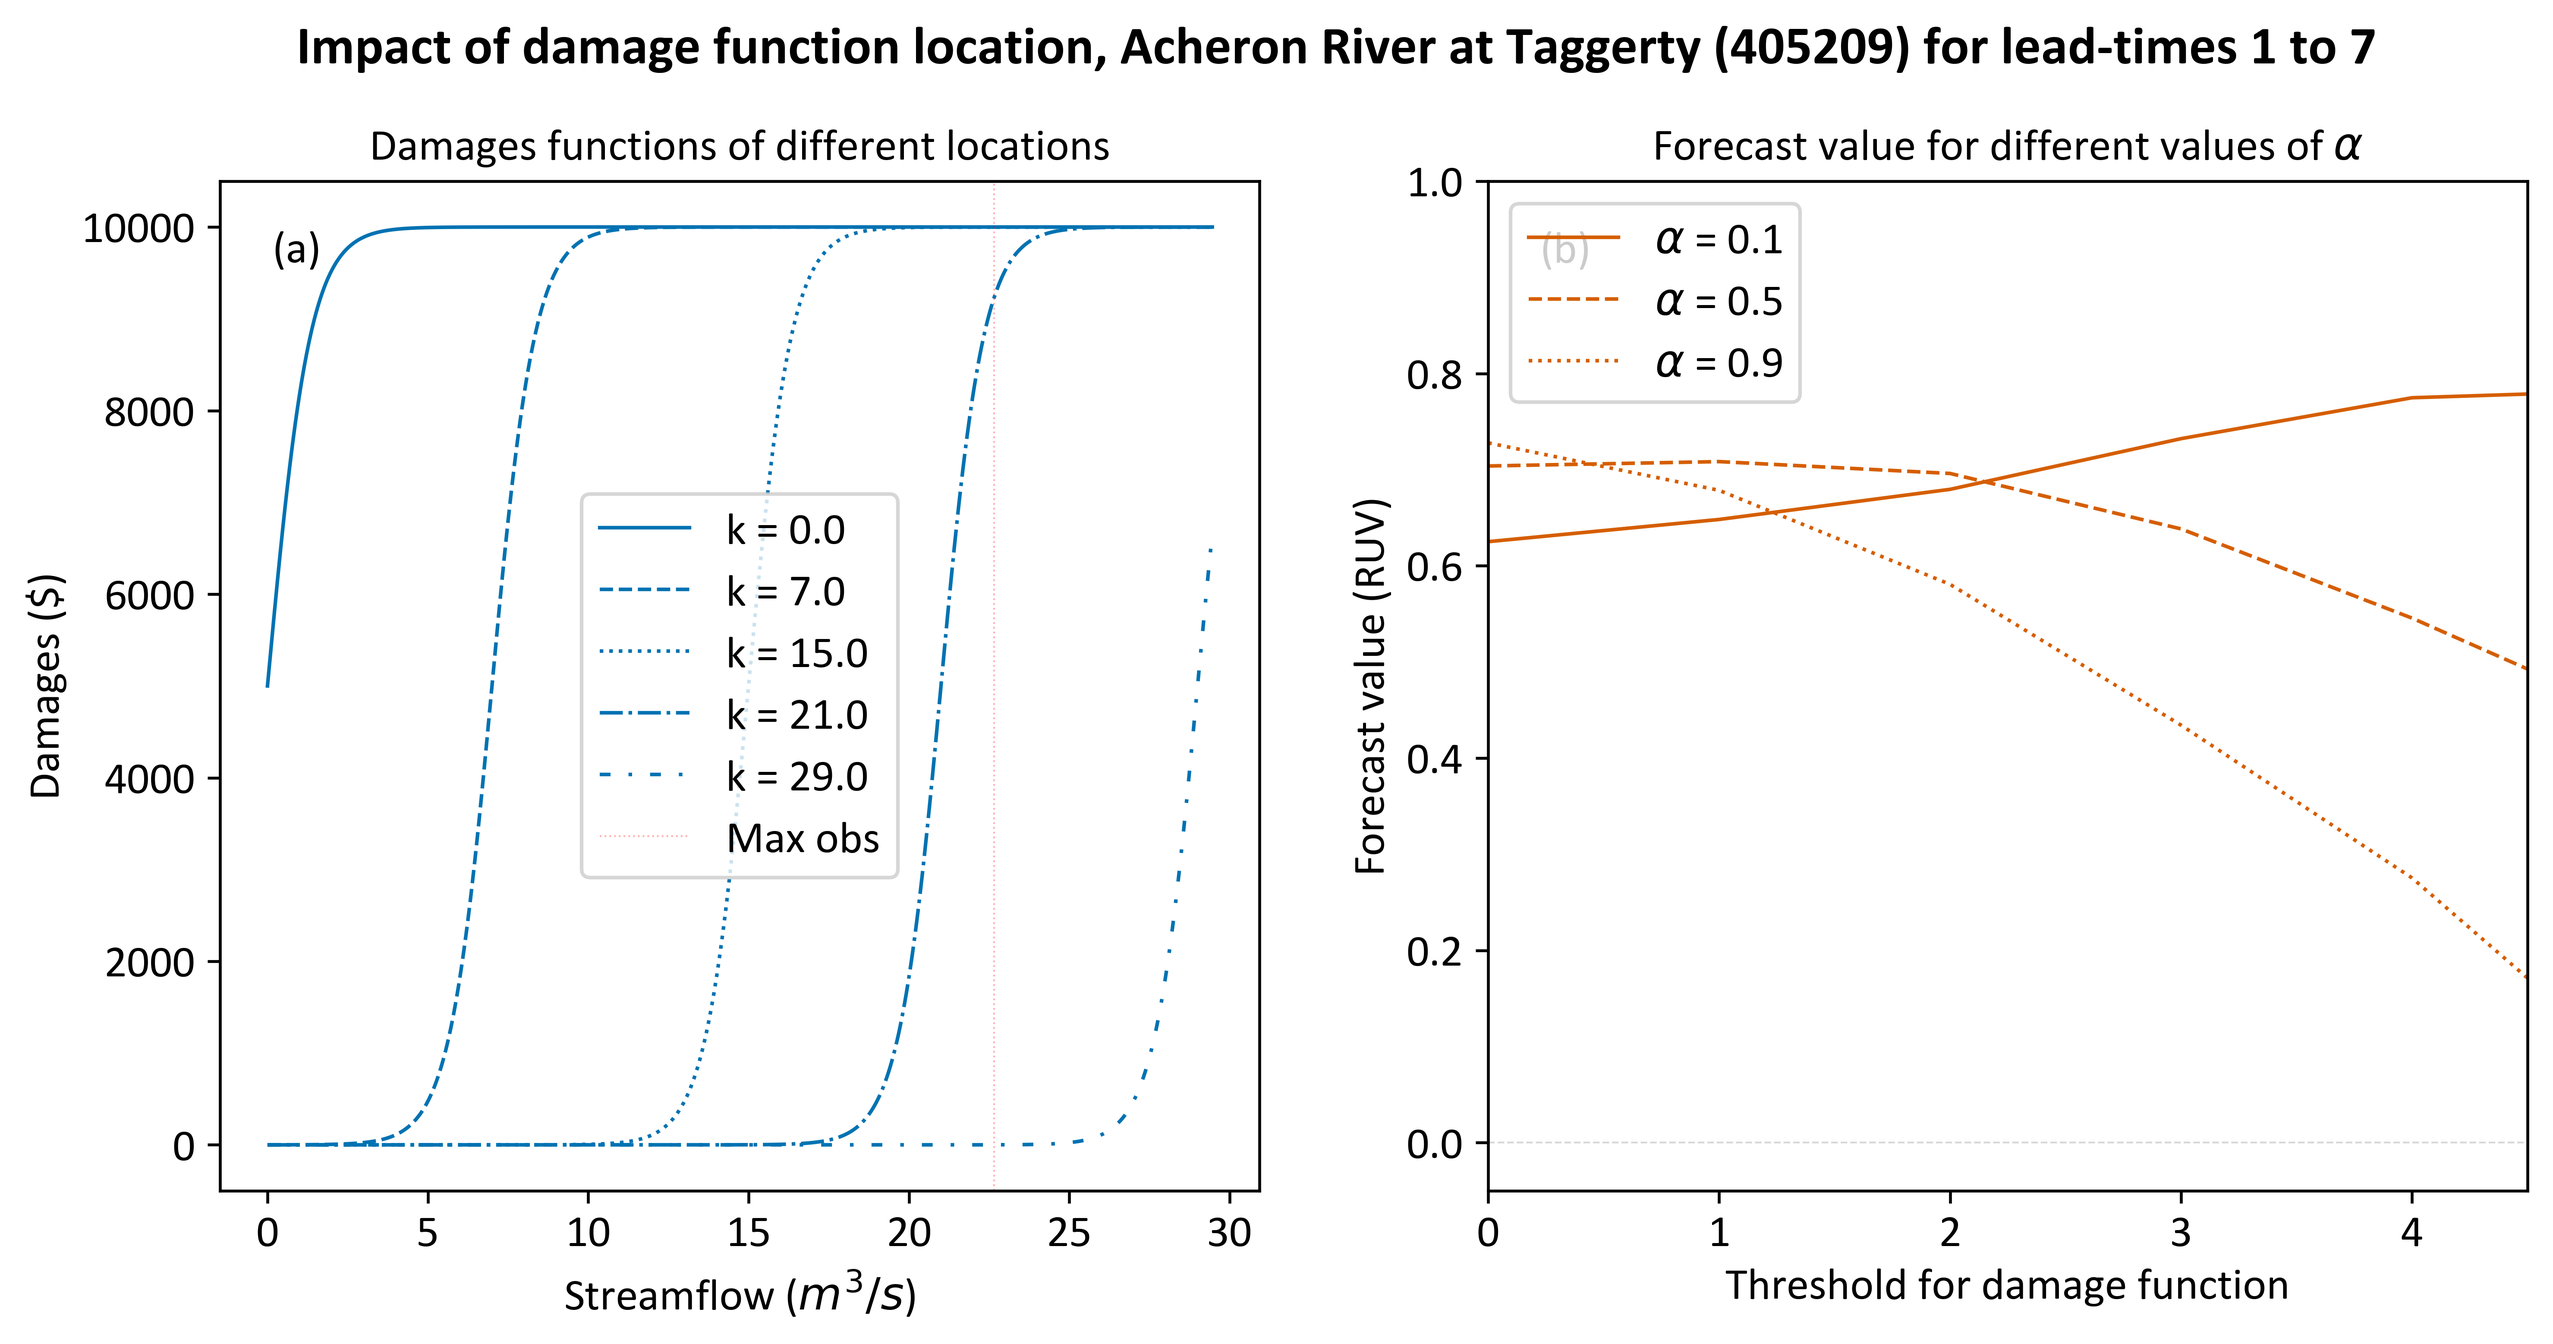
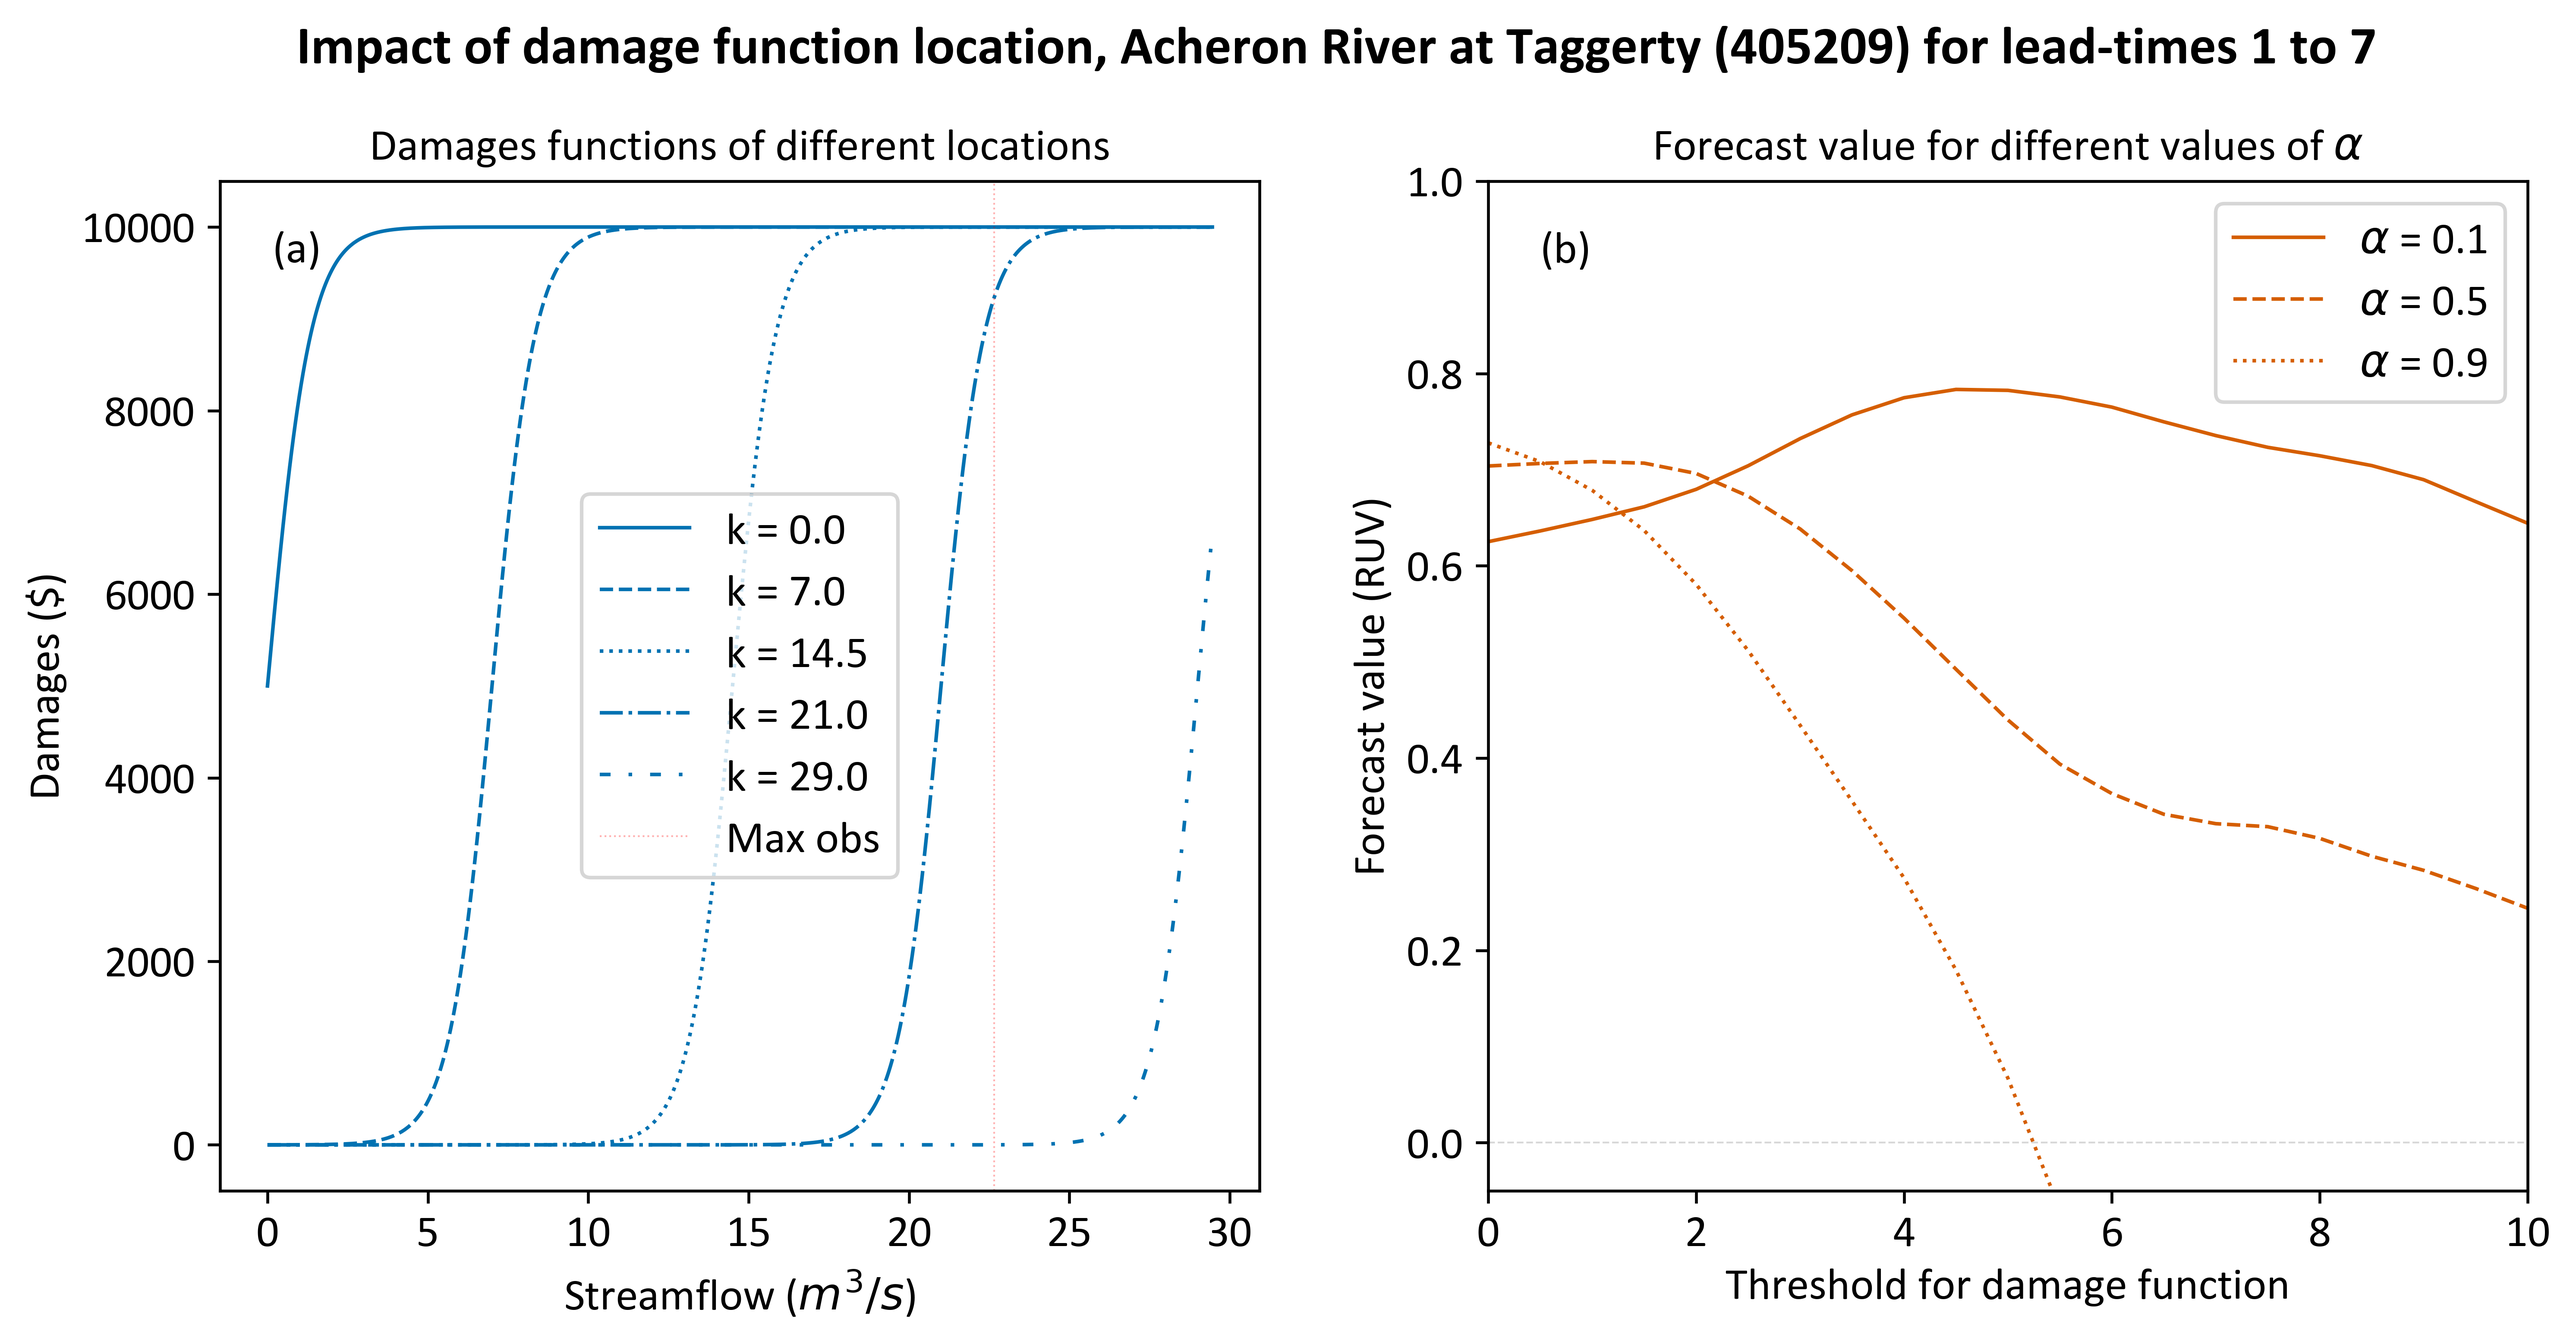
Updated x-axis of location plot

diff --git a/laugesen_2023b/location_figure.py b/laugesen_2023b/location_figure.py
@@ -142,7 +142,7 @@ def generate_figure(results, metadata):
     plt.axhline(0, color='grey', linewidth=0.5, alpha=0.3, linestyle='--', label='_hidden')
 
     plt.ylim(-0.05, 1)
-    plt.xlim((0, 4.5))
+    plt.xlim((0, 10))
 
     ax.set_xlabel('Threshold for damage function')
     ax.set_ylabel('Forecast value (RUV)')
